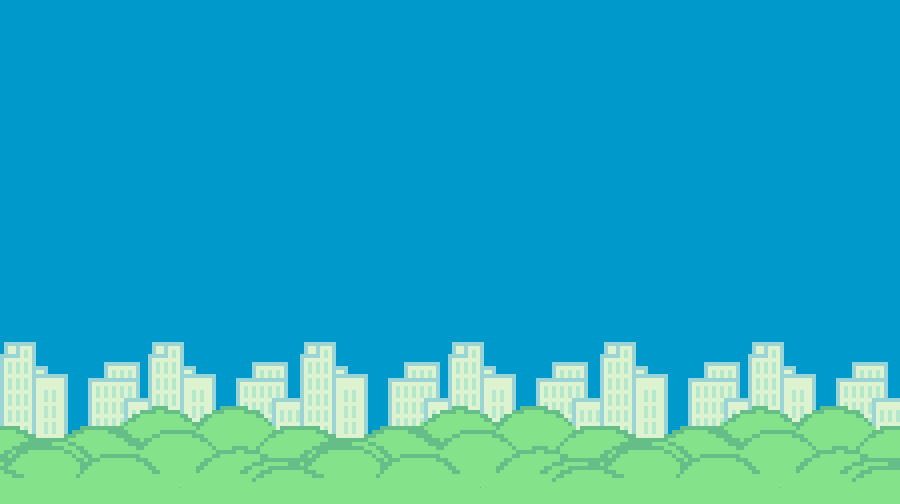
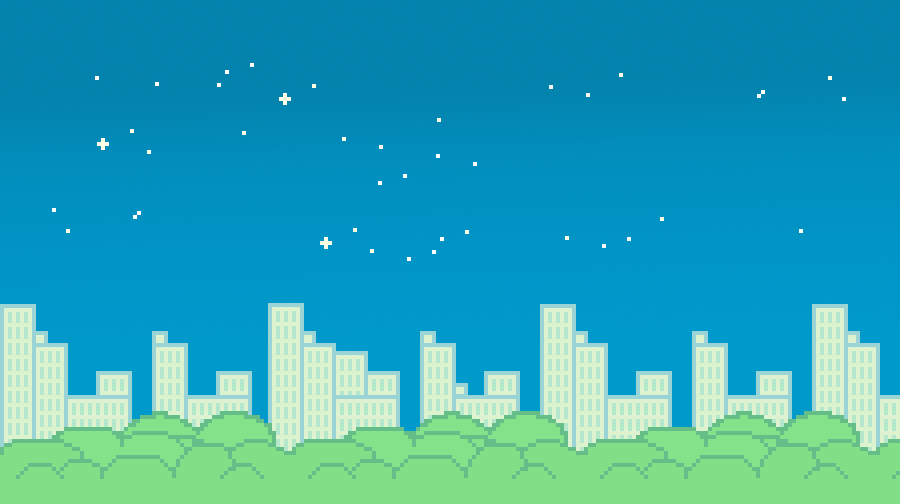
Fixed blood, background and deleted broken and used function.

diff --git a/Death Dodger/GameScene.swift b/Death Dodger/GameScene.swift
@@ -249,11 +249,6 @@ class GameScene: SKScene, SKPhysicsContactDelegate {
         for t in touches { self.touchMoved(toPoint: t.locationInNode(self)) }
     }
     
-    override func touchesCancelled(touches: Set<UITouch>, withEvent event: UIEvent?) {
-        for t in touches { self.touchUp(atPoint: t.locationInNode(self)) }
-    }
-    
-    
     //***************************************************** Swords
     override func update(currentTime: NSTimeInterval) {
         for i in 1 ... swords.endIndex-1 {
